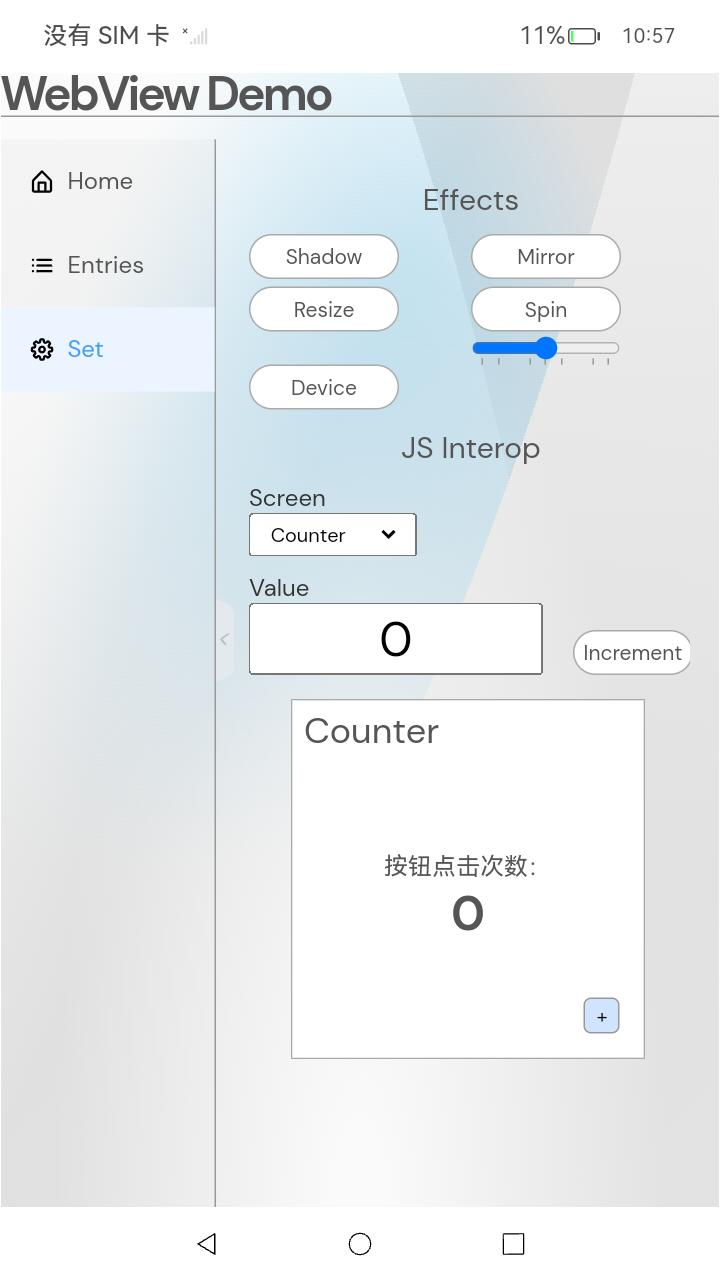
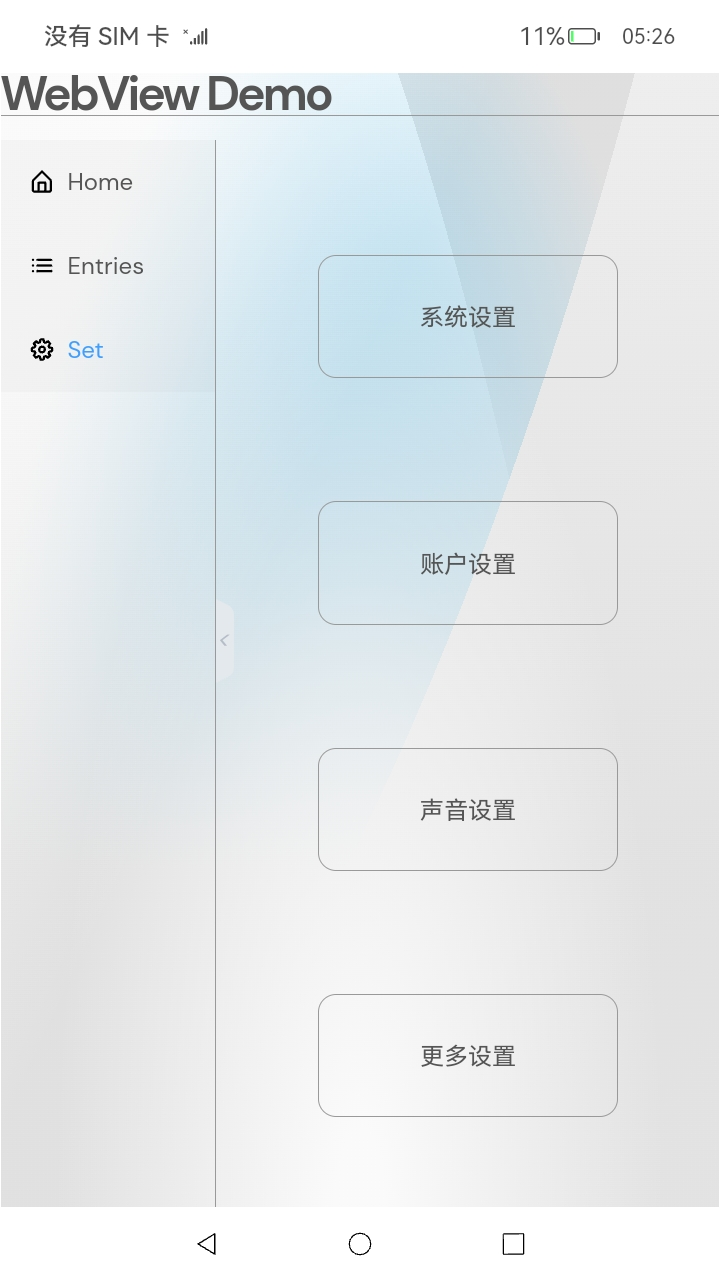
fix: 解决review问题

diff --git a/WebExample/README.md b/WebExample/README.md
@@ -6,7 +6,7 @@
   ![](./screenshots/devices/android_1.png) ![](./screenshots/devices/android_2.png) ![](./screenshots/devices/android_3.png)
 
 * iOS平台展示效果
-  ![](./screenshots/devices/ios_main.png) ![](./screenshots/devices/ios_deserialize.png)
+  ![](./screenshots/devices/ios_1.png) ![](./screenshots/devices/ios_2.png) ![](./screenshots/devices/ios_3.png)
 
 * OpenHarmony平台展示效果
   ![](./screenshots/devices/oh_1.png) ![](./screenshots/devices/oh_2.png) ![](./screenshots/devices/oh_3.png)
@@ -25,7 +25,7 @@
 
 2.点击左侧entries页签，右侧展示出一个文本列表。
 
-3.点击左侧set页面，右侧为按钮+DIV的联动操作区，点击按钮可以对div进行操作。
+3.点击左侧set页面，右侧展示了一个静态页面，里面有系统设置、账户设置等。
 
 ## 约束与限制
 
